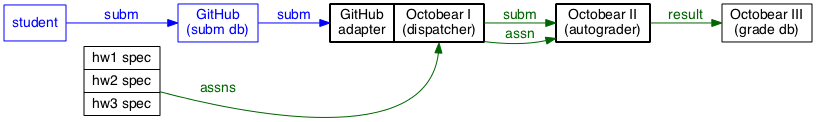
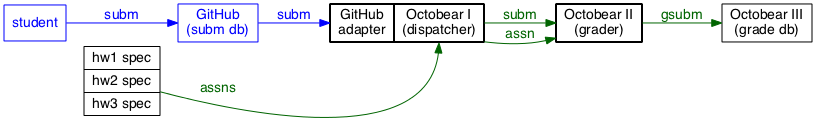
Update terminology in readme

Changed region(s): [[0.674, 0.0246, 0.8578, 0.3689], [0.5821, 0.3443, 0.6434, 0.3689]]

diff --git a/README.md b/README.md
@@ -15,9 +15,10 @@ efforts that are common to many autograder systems.
 
 CommonGrader is a **spec** that describes:
 
--   A format for 3 common **objects** that autograders pass around.
+-   A format for **objects** that autograders pass around.
 
--   A format for some common **tasks** that autograders do.
+-   A rough specification of some common **tasks** that autograders do and the
+    kind of workflow they operate under.
 
 CommonGrader a collection of **code libraries** to do some CommonGrader things:
 
@@ -67,26 +68,31 @@ In this workflow, a student submits an assignment via GitHub, which sends a
 notification (via webhook) to a custom app called Octobear. Even though Octobear
 all runs on one machine, it's conceptually useful to break it down into parts.
 Here, Octobear is also the autograder and the grade db, and so it grades the
-submission and stores the resulting grade.
+submission and stores the resulting grade. ("gsubm" stands for "graded
+submission.")
 
 The blue parts are the things you don't have control over. CommonGrader can make
 make the rest easier to manage:
 
--   No need to make your own Submission, Assignment, and Result classes. Just
+-   No need to make your own Submission and Assignment classes. Just
     import/require the CommonGrader base library to make these classes –
-    complete with de/serialization and validation – accessible to you instantly.
+    complete with de/serialization, validation, and assignment inheritance –
+    accessible to you instantly.
 
 -   CommonGrader is a format for data exchange. All exchanges that take place
     over green arrows can use the CommonGrader format. There's no need to switch
     to CommonGrader immediately if you already have a working custom protocol!
-    You can do it each time a component needs to be rewritten.
+    You can do it each time a component needs to be rewritten, and
+    CommonGrader-ize one arrow at a time.
 
--   It turns out that the GitHub adapter, Octobear I, Octobear II are generic
-    components that can be used by other autograder projects. These can be
-    open-sourced and subject to peer review and improvement.
+-   In the above diagram, it turns out that the GitHub adapter, Octobear I,
+    Octobear II are generic components that can be used by other autograder
+    projects. These can be open-sourced and subject to peer review and
+    improvement.
 
 -   If you're just starting out, or if you decide to need to change your entire
-    infrastructure, these three modularized components can be used as-is.
+    infrastructure, the above three modularized components would be able to be
+    used as-is.
 
 ### Examples: Berkeley CS on CommonGrader
 
@@ -126,8 +132,8 @@ In shorthand, it is expressed as:
 
 ![](<assets/adapter-short.png>)
 
-Who is CommonGrader?
---------------------
+Who is behind CommonGrader?
+---------------------------
 
 CommonGrader was started as a collaboration among autograder development efforts
 at UC Berkeley. [@szhu](<https://github.com/szhu>) currently maintains this

diff --git a/api.md b/api.md
@@ -4,12 +4,12 @@
 CommonGrader API
 ================
 
-The CommonGrader API revolves around three classes of objects: graders,
-submissions, and results. They will be lowercased and unstylized unless they are
-implementation-specific.
+The CommonGrader API revolves around a few classes of objects: graders,
+assignments, submissions, and graded submissions. They will be lowercased and
+unstylized unless they are implementation-specific.
 
-Terminology and serialization
------------------------------
+In general
+----------
 
 Each CommonGrader type is defined as a hash-like data structure that consists of
 **fields**. Field name are always strings, and the type of the value is
@@ -166,8 +166,8 @@ Submissions
 | `time:submitted` | time         | when the submission left the students control                      |
 | `time:graded`    | time         | when the submission finished grading                               |
 
-Graded submission
------------------
+Graded submissions
+------------------
 
 This could be the same object as the submission but it doesn't have to be.
 
